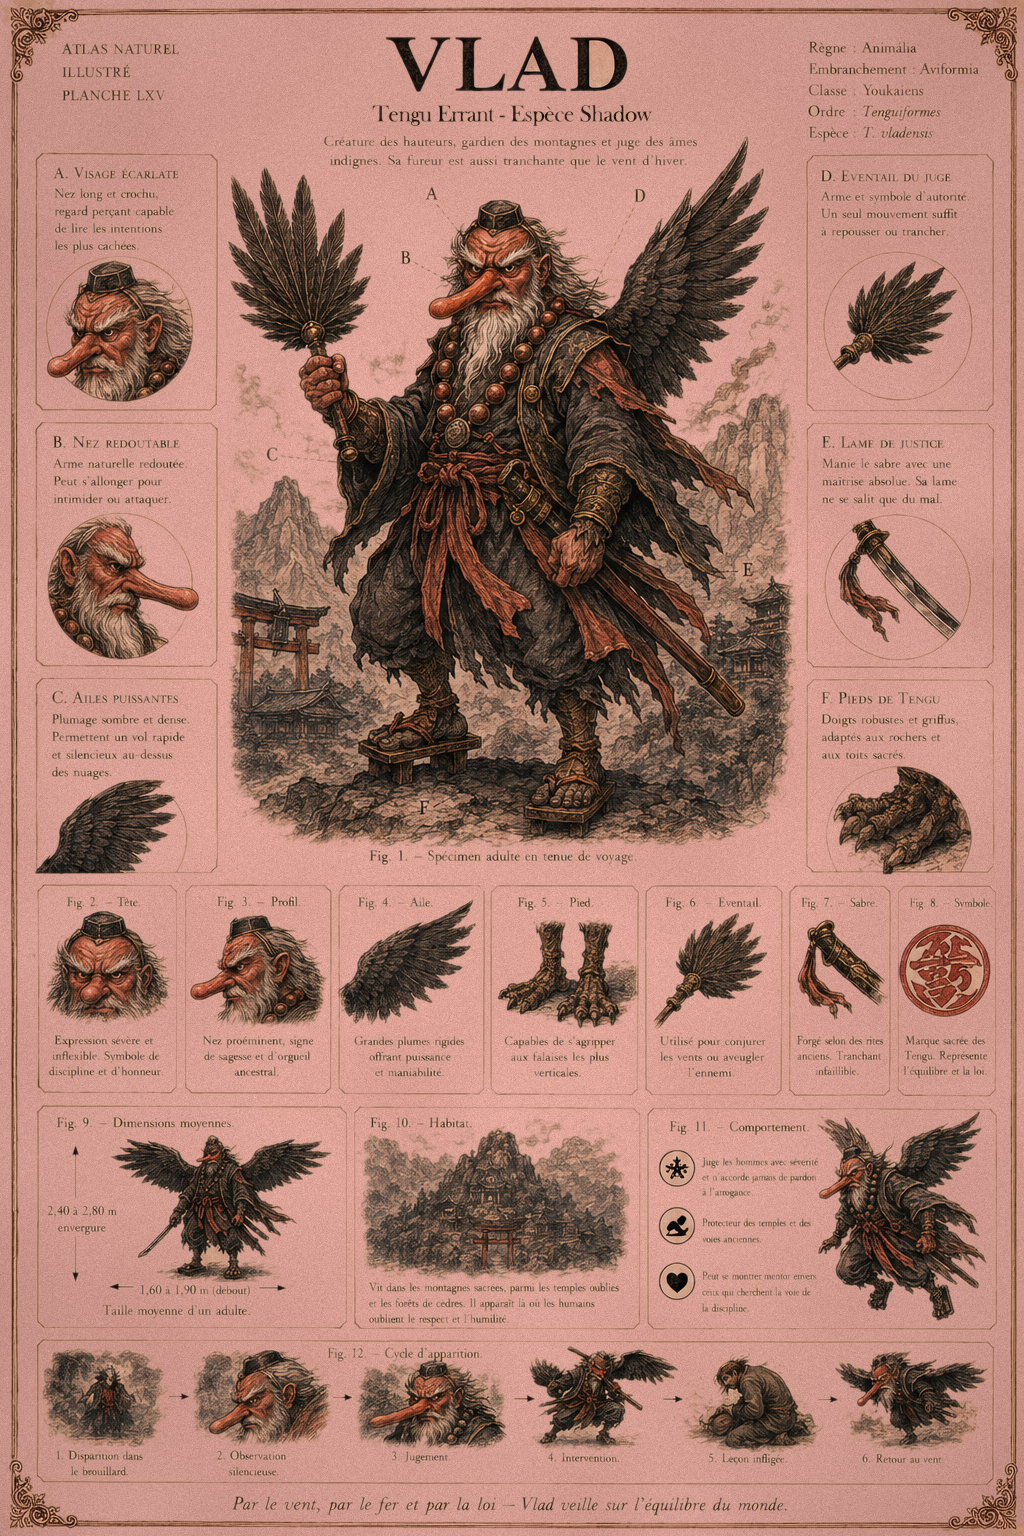
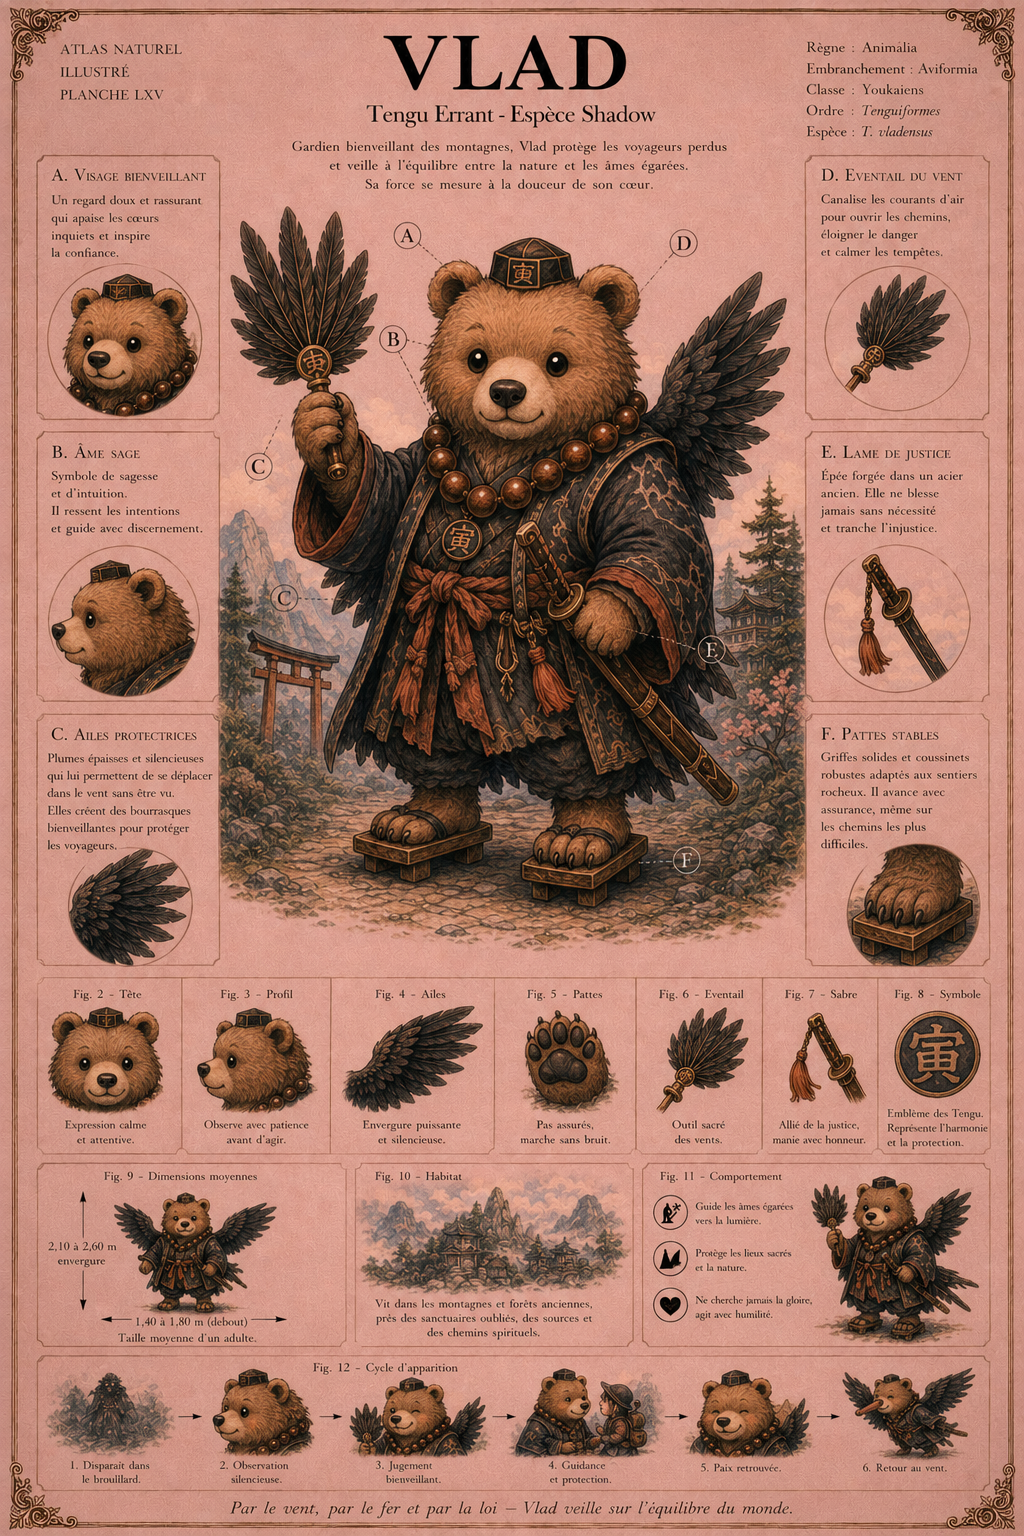
multiples changes

diff --git a/lib/data/cosmetics_data.dart b/lib/data/cosmetics_data.dart
@@ -33,57 +33,57 @@ class CosmeticItem {
 const List<CosmeticItem> kCosmeticsCatalog = [
   // ── Personnages ──────────────────────────────────────────────────────
  
-  CosmeticItem(id: 'agathe-animal', name: 'Agathe - Blomburrow',
+  CosmeticItem(id: 'agathe-tarot', name: 'Agathe - Reine Baton',
     category: CosmeticCategory.character, targetId: 'agathe', cost: 150,
-    imagePath: 'assets/images/characters/agathe-animal.png'),
+    imagePath: 'assets/images/characters/agathe-tarot.png'),
 
-  CosmeticItem(id: 'albane-animal', name: 'Albane - Blomburrow',
+  CosmeticItem(id: 'albane-tarot', name: 'Albane - 7',
     category: CosmeticCategory.character, targetId: 'albane', cost: 150,
-    imagePath: 'assets/images/characters/albane-animal.png'),
+    imagePath: 'assets/images/characters/albane-tarot.png'),
 
-  CosmeticItem(id: 'amelia-animal', name: 'Amelia - Blomburrow',
+  CosmeticItem(id: 'amelia-tarot', name: 'Amelia - Reine Denier',
     category: CosmeticCategory.character, targetId: 'amelia', cost: 150,
-    imagePath: 'assets/images/characters/amelia-animal.png'), 
+    imagePath: 'assets/images/characters/amelia-tarot.png'), 
 
-  CosmeticItem(id: 'art_cade-enf', name: 'Artcade - Baby',
+  CosmeticItem(id: 'art_cade-tarot', name: 'Artcade - 9',
     category: CosmeticCategory.character, targetId: 'artcade', cost: 150,
-    imagePath: 'assets/images/characters/art-enf.png'),
+    imagePath: 'assets/images/characters/art-tarot.png'),
 
-  CosmeticItem(id: 'augustin-enf', name: 'Augustin - Baby',
+  CosmeticItem(id: 'augustin-tarot', name: 'Augustin - Cavalier Baton',
     category: CosmeticCategory.character, targetId: 'augustin', cost: 150,
-    imagePath: 'assets/images/characters/augustin-enf.png'),  
+    imagePath: 'assets/images/characters/augustin-tarot.png'),  
 
   CosmeticItem(id: 'baleine-tarot', name: 'Baleine - XVII.The Star',
     category: CosmeticCategory.character, targetId: 'baleine', cost: 150,
     imagePath: 'assets/images/characters/baleine-tarot.png'), 
 
-  CosmeticItem(id: 'baptiste-enf', name: 'Baptiste - Baby',
+  CosmeticItem(id: 'baptiste-tarot', name: 'Baptiste - Cavalier Coupe',
     category: CosmeticCategory.character, targetId: 'baptiste', cost: 150,
-    imagePath: 'assets/images/characters/baptiste-enf.png'), 
+    imagePath: 'assets/images/characters/baptiste-tarot.png'), 
 
   CosmeticItem(id: 'beeble', name: 'Beeble',
     category: CosmeticCategory.character, targetId: 'bibble', cost: 150,
     imagePath: 'assets/images/characters/beeble.png'),
 
-  CosmeticItem(id: 'bob-sh', name: 'Bob - Theatre',
+  CosmeticItem(id: 'bob-tarot', name: 'Bob - 10',
     category: CosmeticCategory.character, targetId: 'bob', cost: 150,
-    imagePath: 'assets/images/characters/bob-sh.png'), 
+    imagePath: 'assets/images/characters/bob-tarot.png'), 
 
-  CosmeticItem(id: 'cambou-enf', name: 'Cambou - Baby',
+  CosmeticItem(id: 'cambou-tarot', name: 'Cambou - As Baton',
     category: CosmeticCategory.character, targetId: 'cambou', cost: 150,
-    imagePath: 'assets/images/characters/cambou-enf.png'),
+    imagePath: 'assets/images/characters/cambou-tarot.png'),
 
-  CosmeticItem(id: 'carapatte-sh', name: 'Carapatte - Theatre',
+  CosmeticItem(id: 'carapatte-tarot', name: 'Carapatte - As Coupe',
     category: CosmeticCategory.character, targetId: 'carapatte', cost: 150,
-    imagePath: 'assets/images/characters/carapatte-sh.png'),  
+    imagePath: 'assets/images/characters/carapatte-tarot.png'),  
 
-  CosmeticItem(id: 'carla-sh', name: 'Carla - Theatre',
+  CosmeticItem(id: 'carla-tarot', name: 'Carla - 9',
     category: CosmeticCategory.character, targetId: 'carla', cost: 150,
-    imagePath: 'assets/images/characters/carla-sh.png'),
+    imagePath: 'assets/images/characters/carla-tarot.png'),
 
-  CosmeticItem(id: 'christine-sh', name: 'Christine - Theatre',
+  CosmeticItem(id: 'christine-tarot', name: 'Christine - 9',
     category: CosmeticCategory.character, targetId: 'christine', cost: 150,
-    imagePath: 'assets/images/characters/christine-sh.png'),
+    imagePath: 'assets/images/characters/christine-tarot.png'),
 
   CosmeticItem(id: 'clemence-tarot', name: 'Clemence - II.The High Priestess',
     category: CosmeticCategory.character, targetId: 'clemence', cost: 150,
@@ -93,57 +93,57 @@ const List<CosmeticItem> kCosmeticsCatalog = [
     category: CosmeticCategory.character, targetId: 'damien', cost: 150,
     imagePath: 'assets/images/characters/damien-tarot.png'), 
 
-  CosmeticItem(id: 'elaia-enf', name: 'Elaia - Baby',
+  CosmeticItem(id: 'elaia-tarot', name: 'Elaia - 9',
     category: CosmeticCategory.character, targetId: 'elaia', cost: 150,
-    imagePath: 'assets/images/characters/elaia-enf.png'),
+    imagePath: 'assets/images/characters/elaia-tarot.png'),
 
   CosmeticItem(id: 'elise-tarot', name: 'Elise - III.The Empress',
     category: CosmeticCategory.character, targetId: 'elise', cost: 150,
     imagePath: 'assets/images/characters/elise-tarot.png'),  
 
-  CosmeticItem(id: 'emilien-animal', name: 'Emilien - Baby',
+  CosmeticItem(id: 'emilien-tarot', name: 'Emilien - 8',
     category: CosmeticCategory.character, targetId: 'emilien', cost: 150,
-    imagePath: 'assets/images/characters/emilien-animal.png'), 
+    imagePath: 'assets/images/characters/emilien-tarot.png'), 
 
-  CosmeticItem(id: 'fanny-sh', name: 'Fanny - Theatre',
+  CosmeticItem(id: 'fanny-tarot', name: 'Fanny - As Epée',
     category: CosmeticCategory.character, targetId: 'fanny', cost: 150,
-    imagePath: 'assets/images/characters/fanny-sh.png'),
+    imagePath: 'assets/images/characters/fanny-tarot.png'),
   
   CosmeticItem(id: 'felipe-tarot', name: 'Felipe - XII.The Hanged Man',
     category: CosmeticCategory.character, targetId: 'felipe', cost: 150,
     imagePath: 'assets/images/characters/felipe-tarot.png'), 
 
-  CosmeticItem(id: 'fifi-sh', name: 'Fifi - Theatre',
+  CosmeticItem(id: 'fifi-tarot', name: 'Fifi - Valet Coupe',
     category: CosmeticCategory.character, targetId: 'fifi_shadow', cost: 150,
-    imagePath: 'assets/images/characters/fifi-sh.png'),
+    imagePath: 'assets/images/characters/fifi-tarot.png'),
 
-  CosmeticItem(id: 'fijacked-enf', name: 'Fijacked - Baby',
+  CosmeticItem(id: 'fijacked-tarot', name: 'Fijacked - Roi Coupe',
     category: CosmeticCategory.character, targetId: 'fijacked', cost: 150,
-    imagePath: 'assets/images/characters/fijacked-enf.png'), 
+    imagePath: 'assets/images/characters/fijacked-tarot.png'), 
 
   CosmeticItem(id: 'gege-tarot', name: 'Gege - XVIII.The Moon',
     category: CosmeticCategory.character, targetId: 'gege', cost: 150,
     imagePath: 'assets/images/characters/gege-tarot.png'),   
     
-  CosmeticItem(id: 'hailey-sh', name: 'Hailey - Theatre',
+  CosmeticItem(id: 'hailey-tarot', name: 'Hailey - 7',
     category: CosmeticCategory.character, targetId: 'hailey', cost: 150,
-    imagePath: 'assets/images/characters/hailey-sh.png'),   
+    imagePath: 'assets/images/characters/hailey-tarot.png'),   
 
-  CosmeticItem(id: 'hong-animal', name: 'Hong Yi - Baby',
+  CosmeticItem(id: 'hong-tarot', name: 'Hong Yi - Valet Epée',
     category: CosmeticCategory.character, targetId: 'hong_yi', cost: 150,
-    imagePath: 'assets/images/characters/hong-animal.png'),
+    imagePath: 'assets/images/characters/hong-tarot.png'),
 
-  CosmeticItem(id: 'ines-enf', name: 'Ines - Baby',
+  CosmeticItem(id: 'ines-tarot', name: 'Ines - Cavalier Denier',
     category: CosmeticCategory.character, targetId: 'ines', cost: 150,
-    imagePath: 'assets/images/characters/ines-enf.png'),
+    imagePath: 'assets/images/characters/ines-tarot.png'),
 
   CosmeticItem(id: 'jason-tarot', name: 'Jason - 0.The Fool',
     category: CosmeticCategory.character, targetId: 'jason', cost: 150,
     imagePath: 'assets/images/characters/jason-tarot.png'), 
 
-  CosmeticItem(id: 'jeanne-animal', name: 'Jeanne - Blomburrow',
+  CosmeticItem(id: 'jeanne-tarot', name: 'Jeanne - 10',
     category: CosmeticCategory.character, targetId: 'jeanne', cost: 150,
-    imagePath: 'assets/images/characters/jeanne-animal.png'), 
+    imagePath: 'assets/images/characters/jeanne-tarot.png'), 
 
   CosmeticItem(id: 'julien-tarot', name: 'Julien - IV.The Emperor',
     category: CosmeticCategory.character, targetId: 'julien', cost: 150,
@@ -153,49 +153,49 @@ const List<CosmeticItem> kCosmeticsCatalog = [
     category: CosmeticCategory.character, targetId: 'leo', cost: 150,
     imagePath: 'assets/images/characters/leo-tarot.png'), 
 
-  CosmeticItem(id: 'louise-animal', name: 'Louise - Blomburrow',
+  CosmeticItem(id: 'louise-tarot', name: 'Louise - 8',
     category: CosmeticCategory.character, targetId: 'louise', cost: 150,
-    imagePath: 'assets/images/characters/louise-animal.png'),
+    imagePath: 'assets/images/characters/louise-tarot.png'),
 
-  CosmeticItem(id: 'louna-sh', name: 'Louna - Theatre',
+  CosmeticItem(id: 'louna-tarot', name: 'Louna - Reine Epée',
     category: CosmeticCategory.character, targetId: 'louna', cost: 150,
-    imagePath: 'assets/images/characters/louna-sh.png'),  
+    imagePath: 'assets/images/characters/louna-tarot.png'),  
 
   CosmeticItem(id: 'luc-tarot', name: 'Luc - XIX.The Sun',
     category: CosmeticCategory.character, targetId: 'luc', cost: 150,
     imagePath: 'assets/images/characters/luc-tarot.png'),  
 
-  CosmeticItem(id: 'mango-animal', name: 'Mango Loco - Blomburrow',
+  CosmeticItem(id: 'mango-tarot', name: 'Mango Loco - XXI.The World',
     category: CosmeticCategory.character, targetId: 'mango', cost: 150,
-    imagePath: 'assets/images/characters/mango-animal.png'),
+    imagePath: 'assets/images/characters/mango-tarot.png'),
 
-  CosmeticItem(id: 'marin-sh', name: 'Marin - Theatre',
+  CosmeticItem(id: 'marin-tarot', name: 'Marin - Roi Denier',
     category: CosmeticCategory.character, targetId: 'marin', cost: 150,
-    imagePath: 'assets/images/characters/marin-sh.png'), 
+    imagePath: 'assets/images/characters/marin-tarot.png'), 
 
-  CosmeticItem(id: 'marion-sh', name: 'Marion - Theatre',
+  CosmeticItem(id: 'marion-tarot', name: 'Marion - Reine Coupe',
     category: CosmeticCategory.character, targetId: 'marion', cost: 150,
-    imagePath: 'assets/images/characters/marion-sh.png'),  
+    imagePath: 'assets/images/characters/marion-tarot.png'),  
 
-  CosmeticItem(id: 'mathieu-animal', name: 'Mathieu - Baby',
+  CosmeticItem(id: 'mathieu-tarot', name: 'Mathieu - 10',
     category: CosmeticCategory.character, targetId: 'mathieu', cost: 150,
-    imagePath: 'assets/images/characters/mathieu-animal.png'),
+    imagePath: 'assets/images/characters/mathieu-tarot.png'),
 
-  CosmeticItem(id: 'maxence-sh', name: 'Maxence - Theatre',
+  CosmeticItem(id: 'maxence-tarot', name: 'Maxence - 7',
     category: CosmeticCategory.character, targetId: 'maxence', cost: 150,
-    imagePath: 'assets/images/characters/maxence-sh.png'),   
+    imagePath: 'assets/images/characters/maxence-tarot.png'),   
 
-  CosmeticItem(id: 'maxime-enf', name: 'Maxime - Baby',
+  CosmeticItem(id: 'maxime-tarot', name: 'Maxime - IDK',
     category: CosmeticCategory.character, targetId: 'maxime', cost: 150,
-    imagePath: 'assets/images/characters/maxime-enf.png'), 
+    imagePath: 'assets/images/characters/maxime-tarot.png'), 
 
   CosmeticItem(id: 'meg-tarot', name: 'Meg - XVI.The Tower',
     category: CosmeticCategory.character, targetId: 'meg', cost: 150,
     imagePath: 'assets/images/characters/meg-tarot.png'),  
 
-  CosmeticItem(id: 'monkey-animal', name: 'Monkey - Baby',
+  CosmeticItem(id: 'monkey-tarot', name: 'Monkey - Cavalier Epée',
     category: CosmeticCategory.character, targetId: 'monkey', cost: 150,
-    imagePath: 'assets/images/characters/monkey-animal.png'),
+    imagePath: 'assets/images/characters/monkey-tarot.png'),
 
   CosmeticItem(id: 'casino-tarot', name: 'Mr. Casino - X.The Wheel',
     category: CosmeticCategory.character, targetId: 'mr_casino', cost: 150,
@@ -205,25 +205,25 @@ const List<CosmeticItem> kCosmeticsCatalog = [
     category: CosmeticCategory.character, targetId: 'nils', cost: 150,
     imagePath: 'assets/images/characters/nils-tarot.png'),  
 
-  CosmeticItem(id: 'ninja-animal', name: 'Ninja - Baby',
+  CosmeticItem(id: 'ninja-tarot', name: 'Ninja - 10',
     category: CosmeticCategory.character, targetId: 'ninja', cost: 150,
-    imagePath: 'assets/images/characters/ninja-animal.png'),   
+    imagePath: 'assets/images/characters/ninja-tarot.png'),   
 
-  CosmeticItem(id: 'oceane-animal', name: 'Oceane - Bloomburrow',
+  CosmeticItem(id: 'oceane-tarot', name: 'Oceane - 7',
     category: CosmeticCategory.character, targetId: 'oceane', cost: 150,
-    imagePath: 'assets/images/characters/oceane-animal.png'),   
+    imagePath: 'assets/images/characters/oceane-tarot.png'),   
 
-  CosmeticItem(id: 'oscar-animal', name: 'Oscar - Bloomburrow',
+  CosmeticItem(id: 'oscar-tarot', name: 'Oscar - As Baton',
     category: CosmeticCategory.character, targetId: 'oscar', cost: 150,
-    imagePath: 'assets/images/characters/oscar-animal.png'),   
+    imagePath: 'assets/images/characters/oscar-tarot.png'),   
 
-  CosmeticItem(id: 'peio-animal', name: 'Peio - Blomburrow',
+  CosmeticItem(id: 'peio-tarot', name: 'Peio - Roi Baton',
     category: CosmeticCategory.character, targetId: 'peio', cost: 150,
-    imagePath: 'assets/images/characters/peio-animal.png'),  
+    imagePath: 'assets/images/characters/peio-tarot.png'),  
 
-  CosmeticItem(id: 'pirate-animal', name: 'Pirate - Baby',
+  CosmeticItem(id: 'pirate-tarot', name: 'Pirate - 8',
     category: CosmeticCategory.character, targetId: 'pirate', cost: 150,
-    imagePath: 'assets/images/characters/pirate-animal.png'),  
+    imagePath: 'assets/images/characters/pirate-tarot.png'),  
 
   CosmeticItem(id: 'raph-tarot', name: 'Raph - IX.The Hermit',
     category: CosmeticCategory.character, targetId: 'raph_soleil', cost: 150,
@@ -233,33 +233,33 @@ const List<CosmeticItem> kCosmeticsCatalog = [
     category: CosmeticCategory.character, targetId: 'rat_rouen', cost: 150,
     imagePath: 'assets/images/characters/rat-tarot.png'),  
 
-  CosmeticItem(id: 'remi-sh', name: 'Remi - Theatre',
+  CosmeticItem(id: 'remi-tarot', name: 'Remi - Valet Baton',
     category: CosmeticCategory.character, targetId: 'remi', cost: 150,
-    imagePath: 'assets/images/characters/remi-sh.png'),
+    imagePath: 'assets/images/characters/remi-tarot.png'),
 
   CosmeticItem(id: 'richard-tarot', name: 'Richard II - I.The Magician',
     category: CosmeticCategory.character, targetId: 'richard2', cost: 150,
     imagePath: 'assets/images/characters/richard-tarot.png'), 
 
-  CosmeticItem(id: 'scott-sh', name: 'Scott - Theatre',
+  CosmeticItem(id: 'scott-tarot', name: 'Scott - Roi Epée',
     category: CosmeticCategory.character, targetId: 'scott', cost: 150,
-    imagePath: 'assets/images/characters/scott-sh.png'),
+    imagePath: 'assets/images/characters/scott-tarot.png'),
 
   CosmeticItem(id: 'theo-tarot', name: 'Theo - VII.The Chariot',
     category: CosmeticCategory.character, targetId: 'theo', cost: 150,
     imagePath: 'assets/images/characters/theo-tarot.png'),
 
   CosmeticItem(id: 'tom-tarot', name: 'Tom - VIII.Strength',
-    category: CosmeticCategory.character, targetId: 'Tom', cost: 150,
+    category: CosmeticCategory.character, targetId: 'tom', cost: 150,
     imagePath: 'assets/images/characters/tom-tarot.png'),
 
   CosmeticItem(id: 'tommy-tarot', name: 'Tommy - XX.Judgement',
     category: CosmeticCategory.character, targetId: 'tommy', cost: 150,
     imagePath: 'assets/images/characters/tommy-tarot.png'),    
 
-  CosmeticItem(id: 'travert-sh', name: 'Travert - Theatre',
+  CosmeticItem(id: 'travert-tarot', name: 'Travert - 8',
     category: CosmeticCategory.character, targetId: 'travert', cost: 150,
-    imagePath: 'assets/images/characters/travert-sh.png'), 
+    imagePath: 'assets/images/characters/travert-tarot.png'), 
 
   CosmeticItem(id: 'tristan-tarot', name: 'Tristan - V.The Hierophant',
     category: CosmeticCategory.character, targetId: 'tristan', cost: 150,
@@ -269,9 +269,9 @@ const List<CosmeticItem> kCosmeticsCatalog = [
     category: CosmeticCategory.character, targetId: 'victor', cost: 150,
     imagePath: 'assets/images/characters/victor-tarot.png'),            
   
-  CosmeticItem(id: 'vlad-animal', name: 'Vlad - Blomburrow',
+  CosmeticItem(id: 'vlad-tarot', name: 'Vlad - Valet Denier',
     category: CosmeticCategory.character, targetId: 'vlad', cost: 150,
-    imagePath: 'assets/images/characters/vlad-animal.png'),
+    imagePath: 'assets/images/characters/vlad-tarot.png'),
    
 
 
